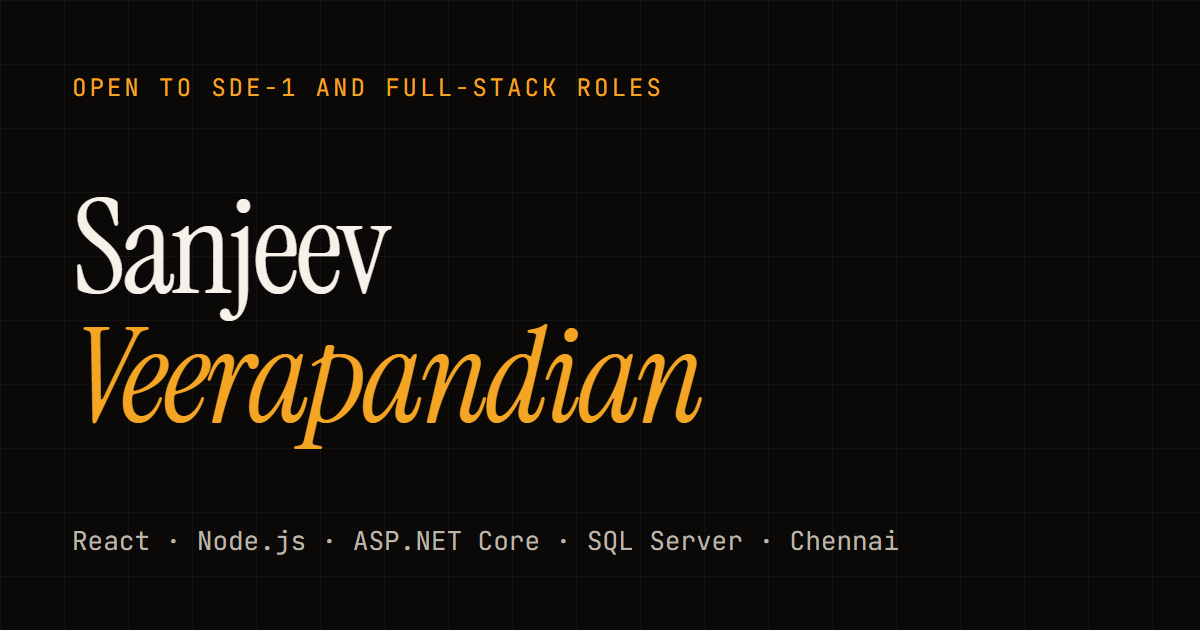
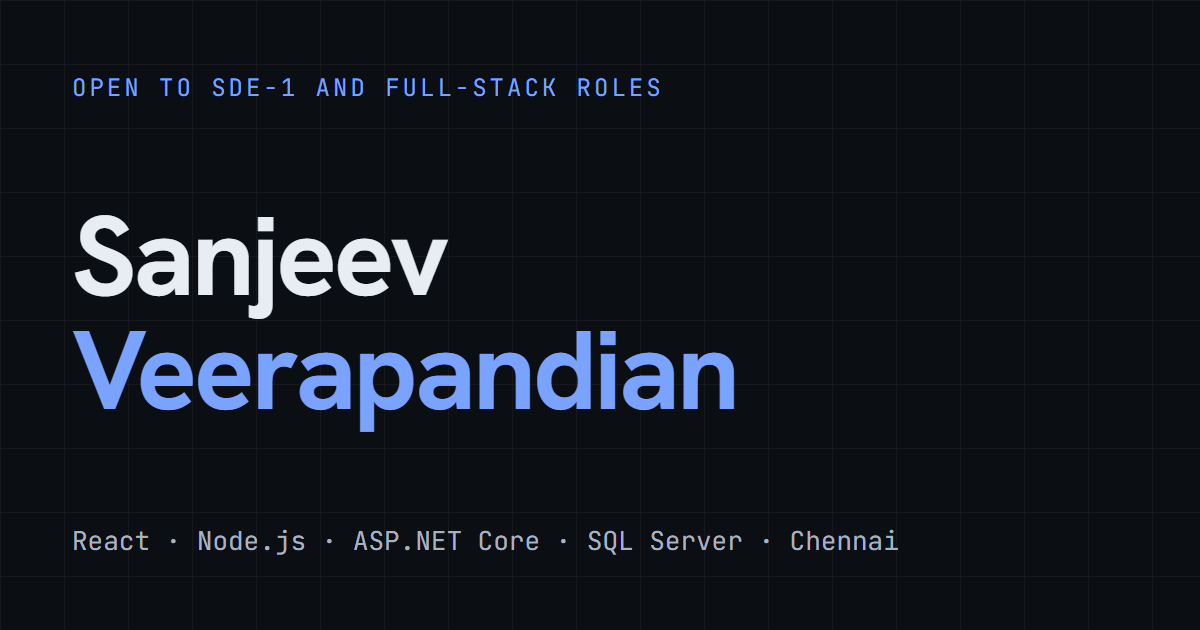
Calmer redesign: slate and blue palette, sans headings, smaller type and tighter spacing

diff --git a/app/globals.css b/app/globals.css
@@ -9,50 +9,51 @@
    by the `.light` class only when the visitor chose it. */
 :root {
   color-scheme: dark;
-  --canvas: #0a0908;
-  --surface: #131110;
-  --elevated: #1c1916;
-  --nav-scrim: rgba(10, 9, 8, 0.82);
-  --bdr: rgba(255, 244, 224, 0.1);
-  --bdr-strong: rgba(255, 244, 224, 0.2);
-  --ink-1: #f6f2e9;
-  --ink-2: #bdb6a8;
-  --ink-3: #968f82;
-  --accent: #f5a524;
-  --accent-ink: #140d02;
-  --accent-dim: rgba(245, 165, 36, 0.14);
-  --accent-glow: rgba(245, 165, 36, 0.28);
-  --ok: #4ade80;
-  --ok-dim: rgba(74, 222, 128, 0.13);
-  --shadow: 0 10px 40px rgba(0, 0, 0, 0.45);
-  --grid-line: rgba(255, 244, 224, 0.035);
+  --font-display: var(--font-body);
+  --canvas: #0b0f14;
+  --surface: #111820;
+  --elevated: #18212b;
+  --nav-scrim: rgba(11, 15, 20, 0.82);
+  --bdr: rgba(148, 163, 184, 0.14);
+  --bdr-strong: rgba(148, 163, 184, 0.28);
+  --ink-1: #e8edf3;
+  --ink-2: #a8b3c1;
+  --ink-3: #8591a0;
+  --accent: #7aa2ff;
+  --accent-ink: #07111f;
+  --accent-dim: rgba(122, 162, 255, 0.13);
+  --accent-glow: rgba(122, 162, 255, 0.28);
+  --ok: #3fb950;
+  --ok-dim: rgba(63, 185, 80, 0.14);
+  --shadow: 0 8px 30px rgba(0, 0, 0, 0.4);
+  --grid-line: rgba(148, 163, 184, 0.04);
 
-  --step--1: clamp(0.8125rem, 0.79rem + 0.1vw, 0.875rem);
-  --step-0: clamp(0.9375rem, 0.91rem + 0.15vw, 1.0625rem);
-  --step-1: clamp(1.125rem, 1.05rem + 0.35vw, 1.375rem);
-  --step-2: clamp(1.5rem, 1.3rem + 0.9vw, 2.125rem);
-  --step-3: clamp(2rem, 1.6rem + 1.8vw, 3.25rem);
-  --step-4: clamp(2.75rem, 1.9rem + 4.2vw, 6rem);
+  --step--1: clamp(0.78rem, 0.76rem + 0.1vw, 0.84rem);
+  --step-0: clamp(0.9rem, 0.88rem + 0.1vw, 0.97rem);
+  --step-1: clamp(1rem, 0.95rem + 0.2vw, 1.125rem);
+  --step-2: clamp(1.15rem, 1.08rem + 0.35vw, 1.4rem);
+  --step-3: clamp(1.5rem, 1.3rem + 0.9vw, 2.1rem);
+  --step-4: clamp(2.1rem, 1.6rem + 2.2vw, 3.5rem);
 }
 .light {
   color-scheme: light;
-  --canvas: #faf8f3;
-  --surface: #f1eee6;
-  --elevated: #e8e3d7;
-  --nav-scrim: rgba(250, 248, 243, 0.86);
-  --bdr: rgba(60, 44, 20, 0.13);
-  --bdr-strong: rgba(60, 44, 20, 0.28);
-  --ink-1: #1c1917;
-  --ink-2: #45403a;
-  --ink-3: #5f584f;
-  --accent: #9a4a06;
+  --canvas: #f8fafc;
+  --surface: #ffffff;
+  --elevated: #f1f5f9;
+  --nav-scrim: rgba(248, 250, 252, 0.86);
+  --bdr: rgba(15, 23, 42, 0.1);
+  --bdr-strong: rgba(15, 23, 42, 0.22);
+  --ink-1: #0f172a;
+  --ink-2: #475569;
+  --ink-3: #5b6778;
+  --accent: #2f54d4;
   --accent-ink: #ffffff;
-  --accent-dim: rgba(154, 74, 6, 0.1);
-  --accent-glow: rgba(154, 74, 6, 0.2);
-  --ok: #166534;
-  --ok-dim: rgba(22, 101, 52, 0.1);
-  --shadow: 0 10px 36px rgba(60, 44, 20, 0.12);
-  --grid-line: rgba(60, 44, 20, 0.05);
+  --accent-dim: rgba(47, 84, 212, 0.09);
+  --accent-glow: rgba(47, 84, 212, 0.22);
+  --ok: #15803d;
+  --ok-dim: rgba(21, 128, 61, 0.1);
+  --shadow: 0 8px 28px rgba(15, 23, 42, 0.08);
+  --grid-line: rgba(15, 23, 42, 0.045);
 }
 
 @layer base {
@@ -68,7 +69,7 @@
     font-size: var(--step-0);
     background-color: var(--canvas);
     color: var(--ink-1);
-    line-height: 1.65;
+    line-height: 1.6;
     -webkit-font-smoothing: antialiased;
     overflow-x: clip;
   }
@@ -117,7 +118,7 @@
 
 .wrap {
   width: 100%;
-  max-width: 1200px;
+  max-width: 1120px;
   margin-inline: auto;
   padding-inline: max(16px, env(safe-area-inset-left)) max(16px, env(safe-area-inset-right));
 }
@@ -135,10 +136,10 @@
 }
 main, footer { position: relative; z-index: 1; }
 
-.section { padding-block: clamp(3.5rem, 8vw, 7rem); }
+.section { padding-block: clamp(2.25rem, 5vw, 4rem); }
 
 .sec-head {
-  display: grid; gap: 10px; margin-bottom: clamp(1.75rem, 4vw, 3rem);
+  display: grid; gap: 10px; margin-bottom: clamp(1.25rem, 3vw, 1.75rem);
 }
 .sec-index {
   display: flex; align-items: center; gap: 14px;
@@ -147,8 +148,8 @@ main, footer { position: relative; z-index: 1; }
 }
 .sec-index::after { content: ""; height: 1px; flex: 1; background: var(--bdr); }
 .sec-title {
-  font-family: var(--font-display), Georgia, serif; font-weight: 400;
-  font-size: var(--step-3); line-height: 1.05; letter-spacing: -0.02em;
+  font-family: var(--font-display), system-ui, sans-serif; font-weight: 600;
+  font-size: var(--step-3); line-height: 1.15; letter-spacing: -0.02em;
 }
 .sec-title em { color: var(--accent); }
 .sec-lede { color: var(--ink-2); max-width: 60ch; }
@@ -163,7 +164,7 @@ main, footer { position: relative; z-index: 1; }
 .card {
   position: relative;
   border: 1px solid var(--bdr);
-  border-radius: 16px;
+  border-radius: 12px;
   background: var(--surface);
   transition: border-color 0.25s, transform 0.25s;
 }
@@ -237,7 +238,7 @@ main, footer { position: relative; z-index: 1; }
   font-family: var(--font-display), serif; font-size: 24px; letter-spacing: -0.02em;
   min-height: 44px; display: inline-flex; align-items: center;
 }
-.nav-logo span { color: var(--accent); font-style: italic; }
+.nav-logo span { color: var(--accent); }
 .nav-links { display: none; align-items: center; gap: 2px; }
 @media (min-width: 820px) { .nav-links { display: flex; } }
 .nav-link {
@@ -278,7 +279,7 @@ main, footer { position: relative; z-index: 1; }
   font-family: var(--font-display), serif; font-size: 30px; border-bottom: 1px solid var(--bdr);
   text-align: left; background: none; border-inline: 0; border-top: 0; cursor: pointer;
 }
-.mobile-link[aria-current="true"] { color: var(--accent); font-style: italic; }
+.mobile-link[aria-current="true"] { color: var(--accent); }
 .mobile-link span { font-family: var(--font-mono), monospace; font-size: 12px; color: var(--ink-3); }
 
 .progress {
@@ -297,8 +298,8 @@ main, footer { position: relative; z-index: 1; }
 
 /* ───────────────────────── Hero ───────────────────────── */
 .hero {
-  padding-top: calc(104px + env(safe-area-inset-top));
-  padding-bottom: clamp(2.5rem, 6vw, 4.5rem);
+  padding-top: calc(84px + env(safe-area-inset-top));
+  padding-bottom: clamp(1.5rem, 4vw, 2.5rem);
 }
 .hero-grid { display: grid; gap: clamp(2rem, 5vw, 3.5rem); align-items: center; }
 @media (min-width: 1024px) { .hero-grid { grid-template-columns: 1.05fr 1fr; } }
@@ -308,13 +309,13 @@ main, footer { position: relative; z-index: 1; }
   box-shadow: 0 0 0 0 var(--ok-dim); animation: ring 2.4s ease-out infinite;
 }
 .hero-name {
-  font-family: var(--font-display), Georgia, serif; font-weight: 400; letter-spacing: -0.035em;
-  font-size: var(--step-4); line-height: 0.96;
+  font-family: var(--font-display), Georgia, serif; font-weight: 700; letter-spacing: -0.035em;
+  font-size: var(--step-4); line-height: 1.02;
 }
 .hero-name .line { display: block; overflow: hidden; padding-bottom: 0.08em; }
 .hero-name .line > span { display: block; animation: lineUp 0.9s cubic-bezier(0.22, 1, 0.36, 1) both; }
-.hero-name .line:nth-child(2) > span { animation-delay: 0.1s; color: var(--accent); font-style: italic; }
-.hero-pitch { margin-top: 26px; max-width: 46ch; font-size: var(--step-1); line-height: 1.5; color: var(--ink-2); }
+.hero-name .line:nth-child(2) > span { animation-delay: 0.1s; color: var(--accent); }
+.hero-pitch { margin-top: 18px; max-width: 48ch; font-size: var(--step-1); line-height: 1.5; color: var(--ink-2); }
 .hero-pitch strong { color: var(--ink-1); font-weight: 500; }
 .hero-meta { margin-top: 14px; font-size: var(--step--1); color: var(--ink-3); }
 .hero-cta { display: flex; flex-wrap: wrap; gap: 10px; margin-top: 30px; }
@@ -324,7 +325,7 @@ main, footer { position: relative; z-index: 1; }
 
 /* terminal */
 .term {
-  border: 1px solid var(--bdr-strong); border-radius: 16px; background: var(--surface);
+  border: 1px solid var(--bdr-strong); border-radius: 12px; background: var(--surface);
   box-shadow: var(--shadow); overflow: hidden; min-width: 0;
 }
 .term-bar {
@@ -364,11 +365,11 @@ main, footer { position: relative; z-index: 1; }
 
 /* evidence */
 .evidence {
-  display: grid; grid-template-columns: repeat(2, 1fr); gap: 1px; margin-top: clamp(2.5rem, 6vw, 4.5rem);
-  background: var(--bdr); border: 1px solid var(--bdr); border-radius: 16px; overflow: hidden;
+  display: grid; grid-template-columns: repeat(2, 1fr); gap: 1px; margin-top: clamp(1.5rem, 4vw, 2.5rem);
+  background: var(--bdr); border: 1px solid var(--bdr); border-radius: 12px; overflow: hidden;
 }
 @media (min-width: 900px) { .evidence { grid-template-columns: repeat(5, 1fr); } }
-.ev { background: var(--surface); padding: 18px 18px 20px; display: flex; flex-direction: column; gap: 6px; min-width: 0; }
+.ev { background: var(--surface); padding: 14px 16px 16px; display: flex; flex-direction: column; gap: 6px; min-width: 0; }
 .ev:last-child { grid-column: 1 / -1; }
 @media (min-width: 900px) { .ev:last-child { grid-column: auto; } }
 .ev-num {
@@ -381,7 +382,7 @@ main, footer { position: relative; z-index: 1; }
 .ev a.ev-src { position: relative; color: var(--accent); }
 
 /* ───────────────────────── Projects ───────────────────────── */
-.oss { display: grid; gap: 22px; padding: clamp(18px, 3vw, 28px); margin-bottom: clamp(1.25rem, 3vw, 2rem); }
+.oss { display: grid; gap: 22px; padding: clamp(16px, 2.5vw, 24px); margin-bottom: clamp(1.25rem, 3vw, 2rem); }
 @media (min-width: 900px) { .oss { grid-template-columns: 0.8fr 1.2fr; gap: 36px; } }
 .oss h3, .case h3, .mini h3, .building h3 {
   font-family: var(--font-display), serif; font-weight: 400; letter-spacing: -0.015em;
@@ -408,7 +409,7 @@ main, footer { position: relative; z-index: 1; }
 @media (hover: hover) { .filter:not([aria-pressed="true"]):hover { border-color: var(--accent); color: var(--ink-1); } }
 
 .cases { display: grid; gap: 16px; }
-.case { padding: clamp(18px, 3vw, 30px); display: grid; gap: 24px; }
+.case { padding: clamp(16px, 2.5vw, 24px); display: grid; gap: 24px; }
 @media (min-width: 960px) { .case--diagram { grid-template-columns: 1.25fr 0.75fr; gap: 40px; } }
 .case-meta { display: flex; flex-wrap: wrap; align-items: center; gap: 8px 12px; margin-bottom: 14px; }
 .case-num { font-family: var(--font-mono), monospace; font-size: 12px; color: var(--accent); }
@@ -457,7 +458,7 @@ main, footer { position: relative; z-index: 1; }
 .mini-body { padding: 0 20px 20px; display: grid; gap: 14px; }
 .mini-body .diagram { margin-top: 4px; }
 
-.building { margin-top: clamp(1.5rem, 3vw, 2.25rem); padding: clamp(18px, 3vw, 28px); border-style: dashed; border-color: var(--bdr-strong); background: transparent; display: grid; gap: 14px; }
+.building { margin-top: clamp(1.5rem, 3vw, 2.25rem); padding: clamp(16px, 2.5vw, 24px); border-style: dashed; border-color: var(--bdr-strong); background: transparent; display: grid; gap: 14px; }
 @media (min-width: 760px) { .building { grid-template-columns: 1fr auto; align-items: center; } }
 .building h3 { font-size: var(--step-2); line-height: 1.1; margin: 10px 0 6px; }
 
@@ -470,7 +471,7 @@ main, footer { position: relative; z-index: 1; }
   .b-rec { grid-column: span 3; }
   .b-now { grid-column: span 3; }
 }
-.bento .card { padding: clamp(18px, 3vw, 28px); }
+.bento .card { padding: clamp(16px, 2.5vw, 24px); }
 .b-bio p { font-size: var(--step-1); line-height: 1.55; color: var(--ink-2); max-width: 52ch; }
 .b-bio p + p { margin-top: 16px; }
 .b-bio strong { color: var(--ink-1); font-weight: 500; }
@@ -483,7 +484,7 @@ main, footer { position: relative; z-index: 1; }
 
 /* ───────────────────────── Experience ───────────────────────── */
 .timeline { position: relative; display: grid; gap: 16px; }
-.role { padding: clamp(18px, 3vw, 30px); display: grid; gap: 18px; }
+.role { padding: clamp(16px, 2.5vw, 24px); display: grid; gap: 18px; }
 @media (min-width: 900px) { .role { grid-template-columns: 220px 1fr; gap: 40px; } }
 .role-when { font-family: var(--font-mono), monospace; font-size: 12.5px; color: var(--accent); letter-spacing: 0.04em; }
 .role-co { font-family: var(--font-display), serif; font-size: var(--step-2); line-height: 1.1; letter-spacing: -0.015em; margin-top: 8px; }
@@ -495,9 +496,9 @@ main, footer { position: relative; z-index: 1; }
 .role .chip-row { margin-top: 18px; }
 
 /* ───────────────────────── Skills ───────────────────────── */
-.core { display: grid; grid-template-columns: repeat(2, 1fr); gap: 1px; background: var(--bdr); border: 1px solid var(--bdr); border-radius: 16px; overflow: hidden; margin-bottom: 14px; }
+.core { display: grid; grid-template-columns: repeat(2, 1fr); gap: 1px; background: var(--bdr); border: 1px solid var(--bdr); border-radius: 12px; overflow: hidden; margin-bottom: 14px; }
 @media (min-width: 900px) { .core { grid-template-columns: repeat(4, 1fr); } }
-.core div { background: var(--surface); padding: 20px 18px; font-family: var(--font-display), serif; font-size: var(--step-1); line-height: 1.2; color: var(--ink-1); min-height: 88px; display: flex; align-items: flex-end; }
+.core div { background: var(--surface); padding: 20px 18px; font-family: var(--font-display), serif; font-size: var(--step-1); line-height: 1.2; color: var(--ink-1); min-height: 72px; display: flex; align-items: flex-end; }
 .core div span { display: block; font-family: var(--font-mono), monospace; font-size: 11px; letter-spacing: 0.12em; text-transform: uppercase; color: var(--accent); margin-bottom: 10px; }
 .core div { flex-direction: column; align-items: flex-start; justify-content: flex-end; }
 .skill-grid { display: grid; gap: 14px; }
@@ -507,7 +508,7 @@ main, footer { position: relative; z-index: 1; }
 .skill-grid h3 { font-family: var(--font-mono), monospace; font-weight: 500; font-size: 11.5px; letter-spacing: 0.14em; text-transform: uppercase; color: var(--ink-3); margin-bottom: 14px; }
 
 /* ───────────────────────── Contact ───────────────────────── */
-.contact { padding: clamp(24px, 5vw, 56px); overflow: hidden; }
+.contact { padding: clamp(20px, 4vw, 40px); overflow: hidden; }
 .contact::before {
   content: ""; position: absolute; top: -140px; right: -140px; width: 380px; height: 380px; border-radius: 50%;
   background: radial-gradient(circle, var(--accent-glow) 0%, transparent 70%); pointer-events: none;
@@ -531,7 +532,7 @@ main, footer { position: relative; z-index: 1; }
 /* 404 */
 .nf { min-height: 100dvh; display: grid; place-items: center; padding: 32px 16px; position: relative; z-index: 1; }
 .nf-box { max-width: 560px; width: 100%; }
-.nf .nf-code { font-family: var(--font-display), serif; font-size: clamp(5rem, 22vw, 11rem); line-height: 0.85; letter-spacing: -0.04em; color: var(--accent); font-style: italic; }
+.nf .nf-code { font-family: var(--font-display), serif; font-size: clamp(4rem, 16vw, 7rem); line-height: 0.85; letter-spacing: -0.04em; color: var(--accent); }
 .nf h1 { font-family: var(--font-display), serif; font-weight: 400; font-size: var(--step-3); margin-top: 18px; letter-spacing: -0.02em; line-height: 1.05; }
 .nf p { margin-top: 12px; color: var(--ink-2); }
 .nf .term-cmd { margin-top: 22px; }
@@ -561,3 +562,29 @@ main, footer { position: relative; z-index: 1; }
   .cursor, .pill::before, .hero-status .dot, .dg-flow { animation: none !important; }
   #cursor-spotlight { display: none; }
 }
+
+/* Compact, calm typography: sans headings at semibold, no italics */
+.sec-title em, .contact h2 em, .nf-code, .nav-logo span { font-style: normal; }
+.oss h3, .case h3, .mini h3, .building h3, .role-co, .contact h2, .nf h1, .stat-big, .ev-num, .mobile-link, .core div, .nav-logo {
+  font-weight: 600; letter-spacing: -0.015em;
+}
+.contact h2 { font-size: var(--step-3); line-height: 1.1; }
+.contact p { font-size: var(--step-0); margin-top: 12px; }
+.contact-mail { margin-top: 16px; font-size: clamp(0.9rem, 0.7rem + 1vw, 1.15rem); }
+.contact-links { margin-top: 20px; }
+.mobile-link { font-size: 22px; min-height: 52px; }
+.ev-num { font-weight: 700; }
+.hero-pitch { font-size: var(--step-1); }
+.hero-status, .hero-cta { margin-top: 20px; }
+.case-cols dd, .mini-body dd, .role-pts li { font-size: var(--step-0); }
+.b-bio p { font-size: var(--step-0); line-height: 1.6; }
+.stat-big { font-size: var(--step-2); }
+.nav-logo { font-size: 20px; }
+.nav-inner { height: 56px; }
+section[id] { scroll-margin-top: calc(56px + env(safe-area-inset-top)); }
+.mobile-menu { inset: calc(56px + env(safe-area-inset-top)) 0 0 0; }
+.sec-lede { font-size: var(--step-0); }
+.case, .role { gap: 18px; }
+.case-cols { margin-top: 16px; }
+.case-foot { margin-top: 18px; padding-top: 14px; }
+.btn { font-size: 14px; }

diff --git a/app/layout.tsx b/app/layout.tsx
@@ -1,20 +1,12 @@
 import type { Metadata, Viewport } from "next";
-import { Hanken_Grotesk, Instrument_Serif, JetBrains_Mono } from "next/font/google";
+import { Hanken_Grotesk, JetBrains_Mono } from "next/font/google";
 import "./globals.css";
 import { ThemeProvider } from "@/components/ui/ThemeProvider";
 import { SITE_URL } from "@/lib/constants";
 
-const fontDisplay = Instrument_Serif({
-  subsets: ["latin"],
-  weight: "400",
-  style: ["normal", "italic"],
-  variable: "--font-display",
-  display: "swap",
-});
-
 const fontBody = Hanken_Grotesk({
   subsets: ["latin"],
-  weight: ["400", "500", "600"],
+  weight: ["400", "500", "600", "700"],
   variable: "--font-body",
   display: "swap",
 });
@@ -28,7 +20,7 @@ const fontMono = JetBrains_Mono({
 
 export const viewport: Viewport = {
   viewportFit: "cover",
-  themeColor: "#0a0908",
+  themeColor: "#0b0f14",
 };
 
 const TITLE = "Sanjeev Veerapandian | Full-Stack Engineer";
@@ -64,7 +56,7 @@ export default function RootLayout({ children }: { children: React.ReactNode }) 
     <html
       lang="en"
       suppressHydrationWarning
-      className={`dark ${fontDisplay.variable} ${fontBody.variable} ${fontMono.variable}`}
+      className={`dark ${fontBody.variable} ${fontMono.variable}`}
     >
       <head>
         <script dangerouslySetInnerHTML={{ __html: THEME_STORAGE_SCRIPT }} />

diff --git a/app/global-error.tsx b/app/global-error.tsx
@@ -9,7 +9,7 @@ export default function GlobalError({
 }) {
   return (
     <html lang="en" suppressHydrationWarning>
-      <body suppressHydrationWarning style={{ margin: 0, fontFamily: "system-ui,sans-serif", background: "#0a0908", color: "#fffbf5", minHeight: "100dvh" }}>
+      <body suppressHydrationWarning style={{ margin: 0, fontFamily: "system-ui,sans-serif", background: "#0b0f14", color: "#e8edf3", minHeight: "100dvh" }}>
         <div style={{ margin: "2rem auto", maxWidth: 480, padding: 24 }}>
           <h1 style={{ fontSize: "1.25rem", marginBottom: 12 }}>Something went wrong</h1>
           <p style={{ opacity: 0.85, marginBottom: 20, fontSize: 14 }}>{error.message}</p>
@@ -20,7 +20,7 @@ export default function GlobalError({
               padding: "10px 18px",
               borderRadius: 8,
               border: "none",
-              background: "#f59e0b",
+              background: "#7aa2ff",
               color: "#111",
               fontWeight: 600,
               cursor: "pointer",

diff --git a/app/error.tsx b/app/error.tsx
@@ -30,7 +30,7 @@ export default function Error({
           padding: "10px 18px",
           borderRadius: 8,
           border: "none",
-          background: "var(--accent, #f5a524)",
+          background: "var(--accent, #7aa2ff)",
           color: "#111",
           fontWeight: 600,
           cursor: "pointer",
